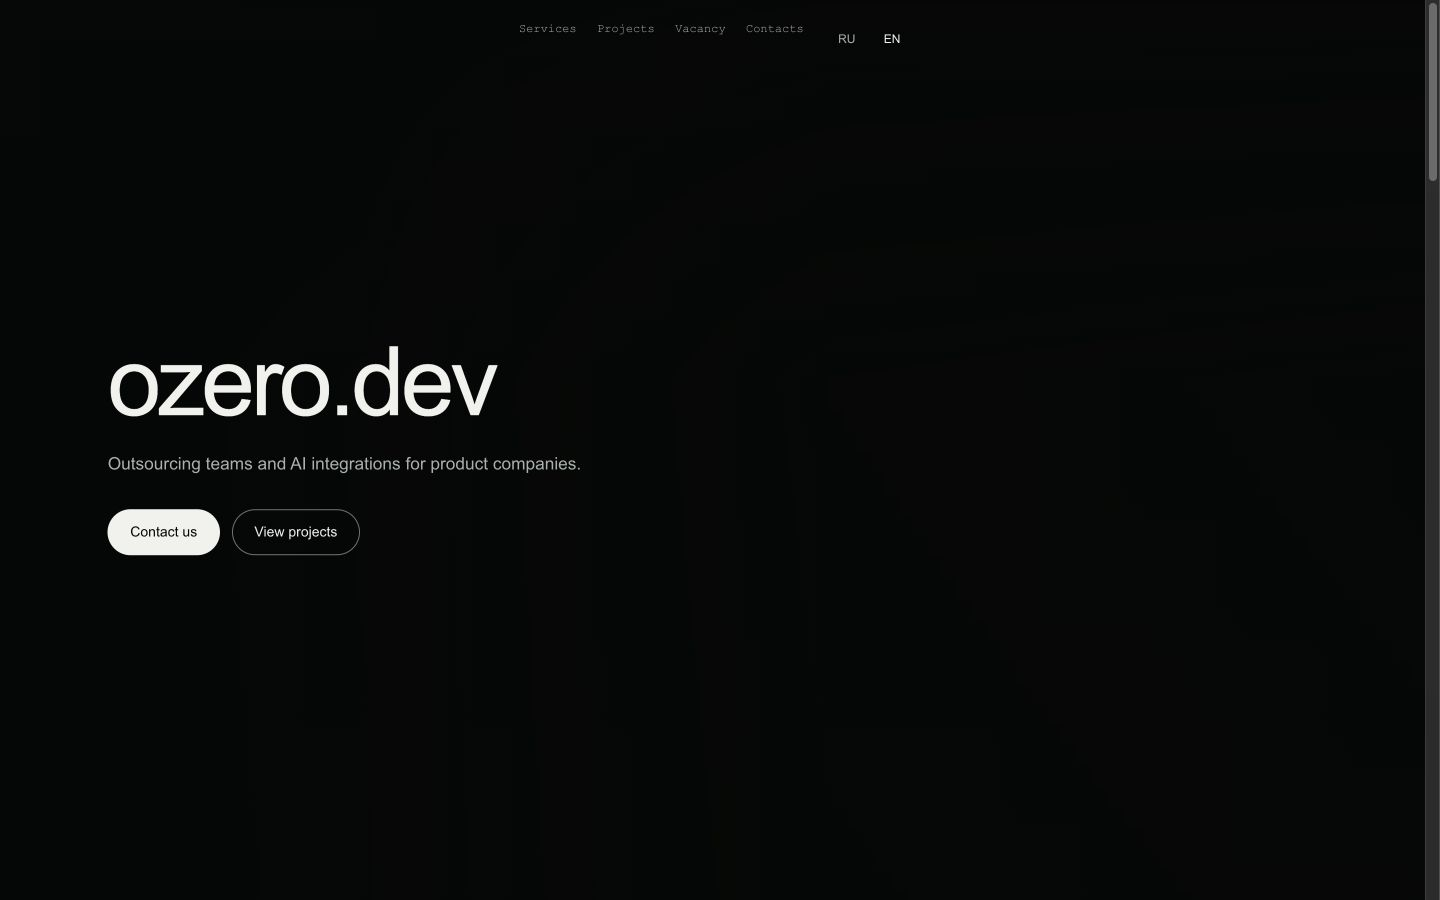
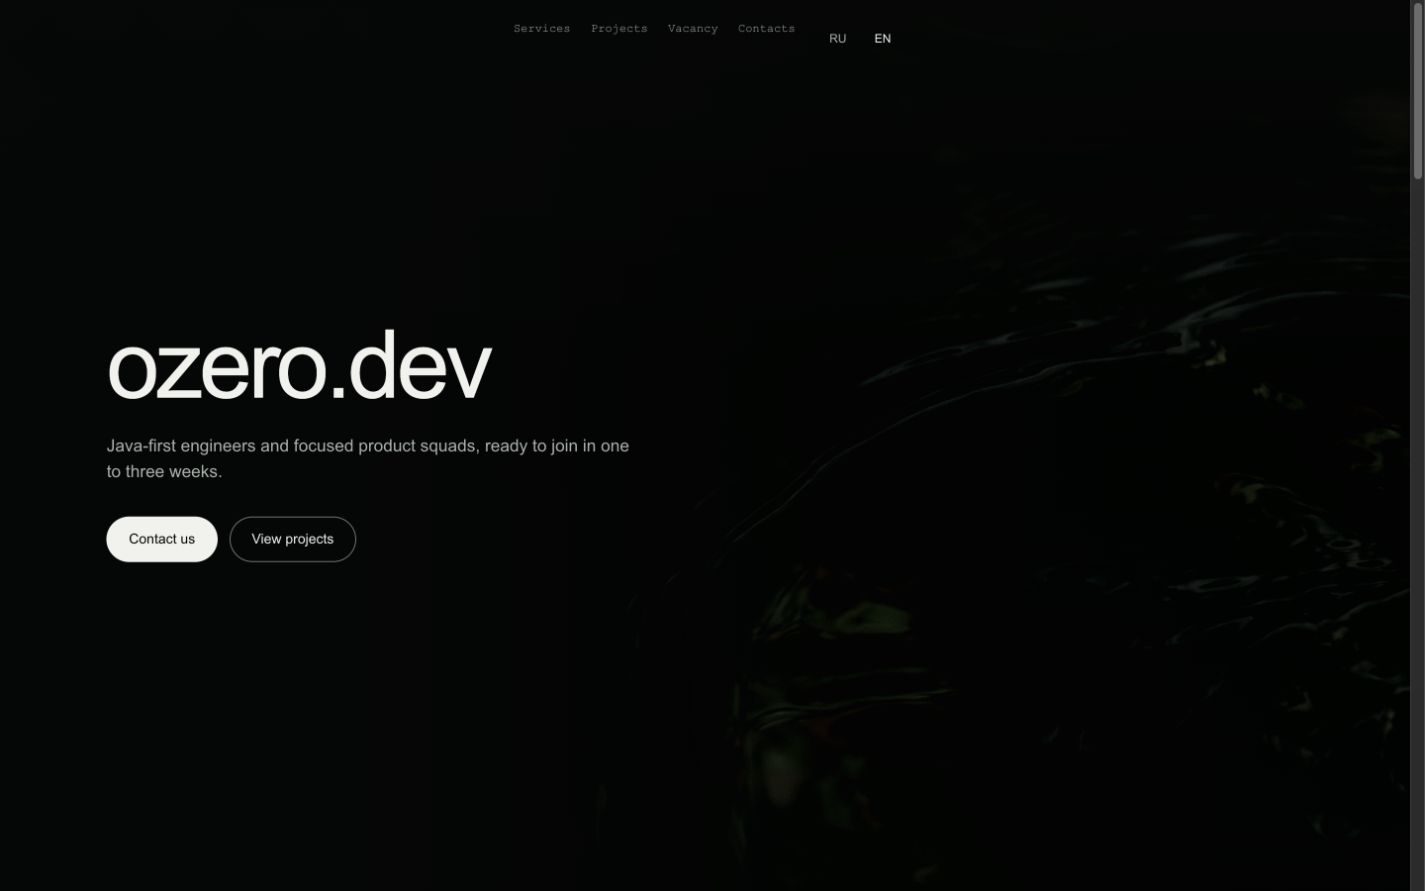
LOD-4 refresh evidence for the final hero offer

Changed region(s): [[0.0618, 0.3636, 0.4323, 0.6364]]

diff --git a/docs/ai/reviews/LOD-4-experience.md b/docs/ai/reviews/LOD-4-experience.md
@@ -2,8 +2,8 @@
 
 ## Result
 
-The cinematic hero implementation at commit `45e4a1b` is accepted for the
-experience milestone.
+The cinematic hero implementation at commit `45e4a1b`, with first-viewport
+offer alignment at `e9dacaf`, is accepted for the experience milestone.
 
 - Motion review: **APPROVE**
 - Independent launch review: **APPROVE WITH NON-BLOCKING NOTES**
@@ -13,6 +13,8 @@ experience milestone.
 
 - The approved desktop, 4:3, and portrait black-water posters are used as
   responsive media.
+- The first viewport states the truthful Java-first offer and one-to-three-week
+  start window in both English and Russian.
 - Water has one restrained 22-second transform-only drift.
 - `public/fishman.png` appears once and crossfades into luminance-derived ASCII.
 - ASCII uses an 8% right crop, 120/64 columns, 2×2 area averaging, threshold

diff --git a/plans/001-fisherman-ascii-hero.md b/plans/001-fisherman-ascii-hero.md
@@ -3,6 +3,7 @@
 - **Status**: DONE
 - **Commit**: 428dbe3
 - **Implementation**: 45e4a1b
+- **Content alignment**: e9dacaf
 - **Severity**: HIGH
 - **Category**: Narrative motion and reduced motion
 - **Estimated scope**: 6–8 files, roughly 500–800 lines including tests
